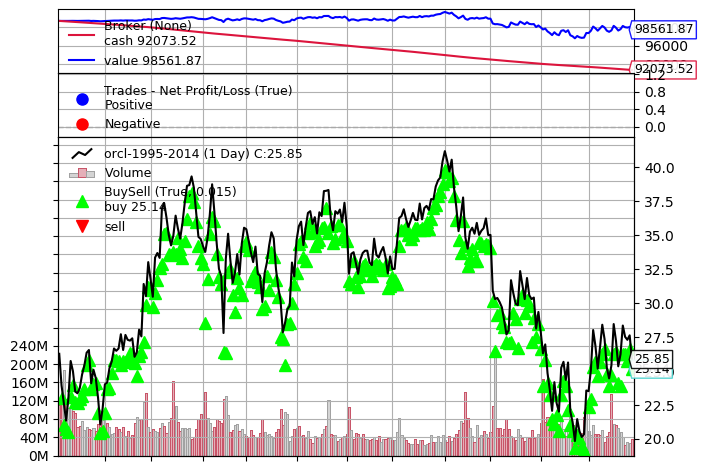
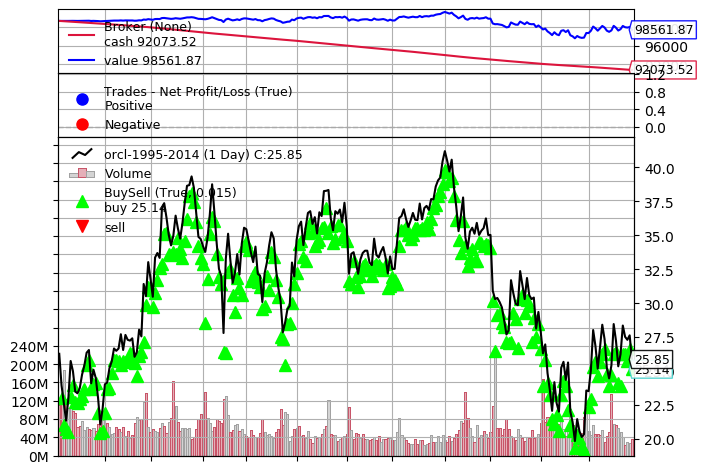
updated

diff --git a/test1.py b/test1.py
@@ -14,6 +14,10 @@ import sys  # To find out the script name (in argv[0])
 
 import backtrader as bt
 
+import matplotlib
+
+matplotlib.use('AGG')
+
 # Create a Stratey
 class TestStrategy(bt.Strategy):
 
